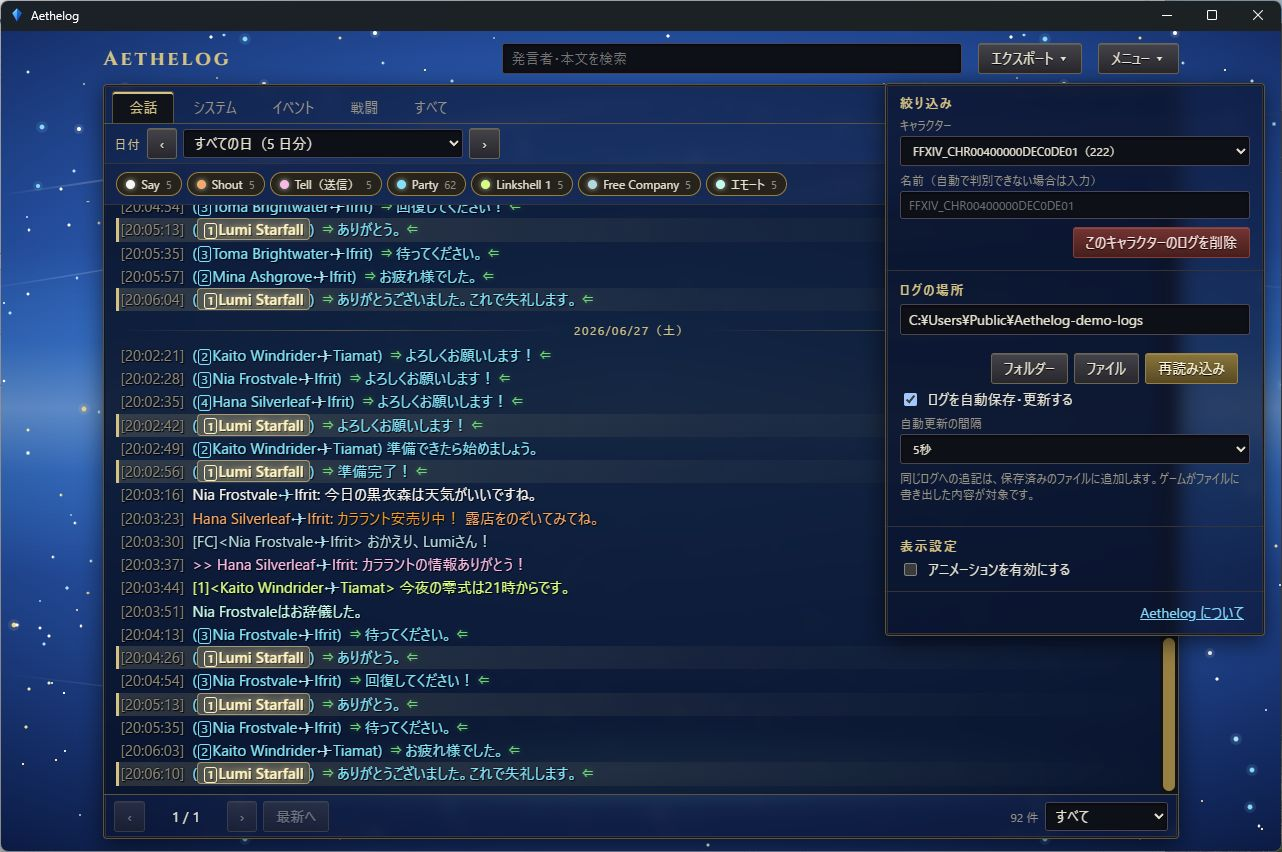
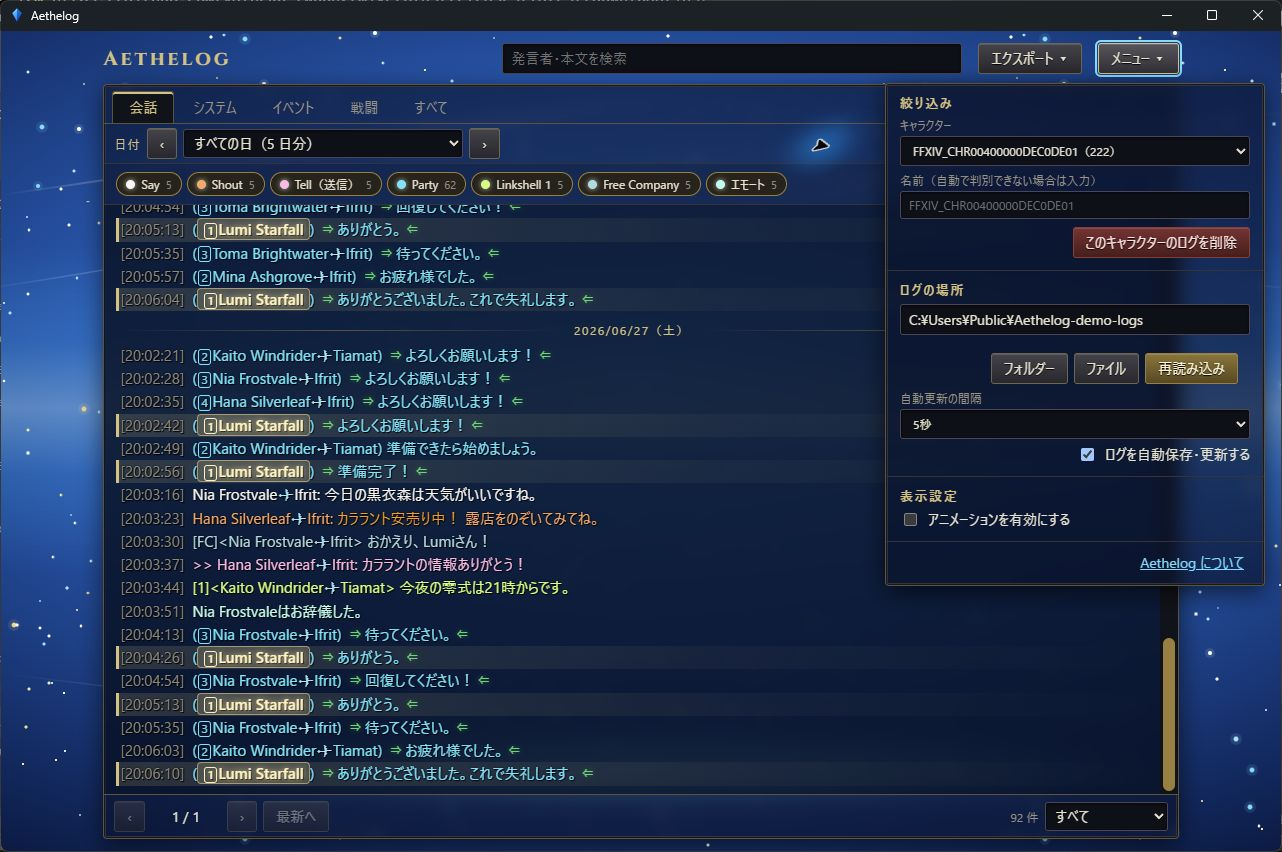
Move the automatic save checkbox below the refresh interval

diff --git a/web/src/App.vue b/web/src/App.vue
@@ -208,13 +208,12 @@ function save(format) {
             <button class="ff-btn primary" :disabled="loading">再読み込み</button>
           </div>
         </form>
-        <label class="check"><input type="checkbox" :checked="state.monitoring" @change="setMonitoring($event.target.checked).catch((e) => (message = e.message))" /> ログを自動保存・更新する</label>
         <label>自動更新の間隔
           <select class="ff-input" :value="state.preferences.refresh_seconds" :disabled="preferencesBusy" @change="savePreferences({ refresh_seconds: Number($event.target.value) }, $event)">
             <option v-for="seconds in refreshIntervals" :key="seconds" :value="seconds">{{ seconds }}秒</option>
           </select>
         </label>
-        <p class="live-help">同じログへの追記は、保存済みのファイルに追加します。ゲームがファイルに書き出した内容が対象です。</p>
+        <label class="check auto-save"><input type="checkbox" :checked="state.monitoring" @change="setMonitoring($event.target.checked).catch((e) => (message = e.message))" /> ログを自動保存・更新する</label>
       </section>
       <section>
         <h2>表示設定</h2>

diff --git a/web/src/style.css b/web/src/style.css
@@ -197,7 +197,7 @@ mark { background: #d9c27e55; color: inherit; border-radius: 2px; }
 .menu label { display: block; margin-top: 6px; color: var(--muted); font-size: 12px; }
 .menu label .ff-input { margin-top: 3px; }
 .menu .check { display: flex; gap: 8px; align-items: center; color: var(--text); font-size: 14px; }
-.menu .live-help { margin-top: 6px; color: var(--muted); font-size: 12px; }
+.menu .auto-save { justify-content: flex-end; }
 .menu .dates { display: grid; grid-template-columns: 1fr 1fr; gap: 8px; }
 .menu .row { display: flex; gap: 6px; flex-wrap: wrap; justify-content: flex-end; margin-top: 8px; }
 .menu .hint { margin: 6px 0 0; }
